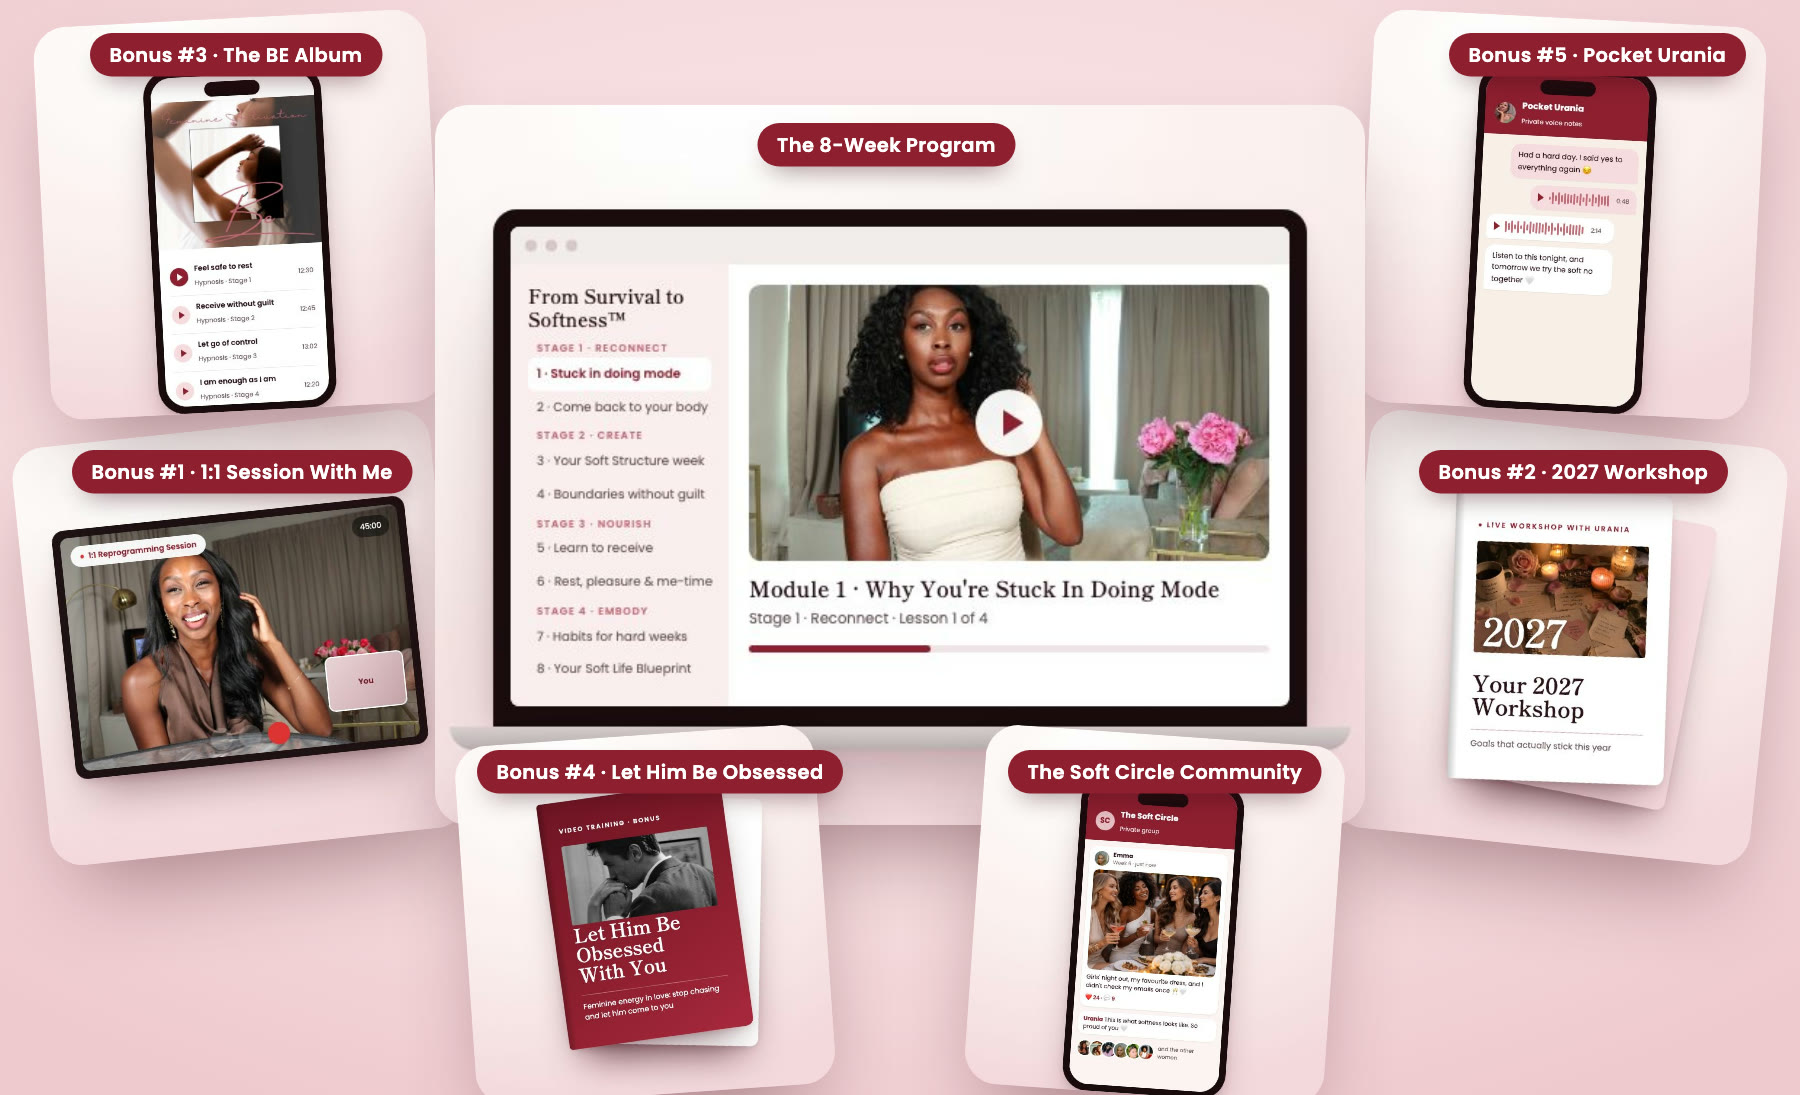
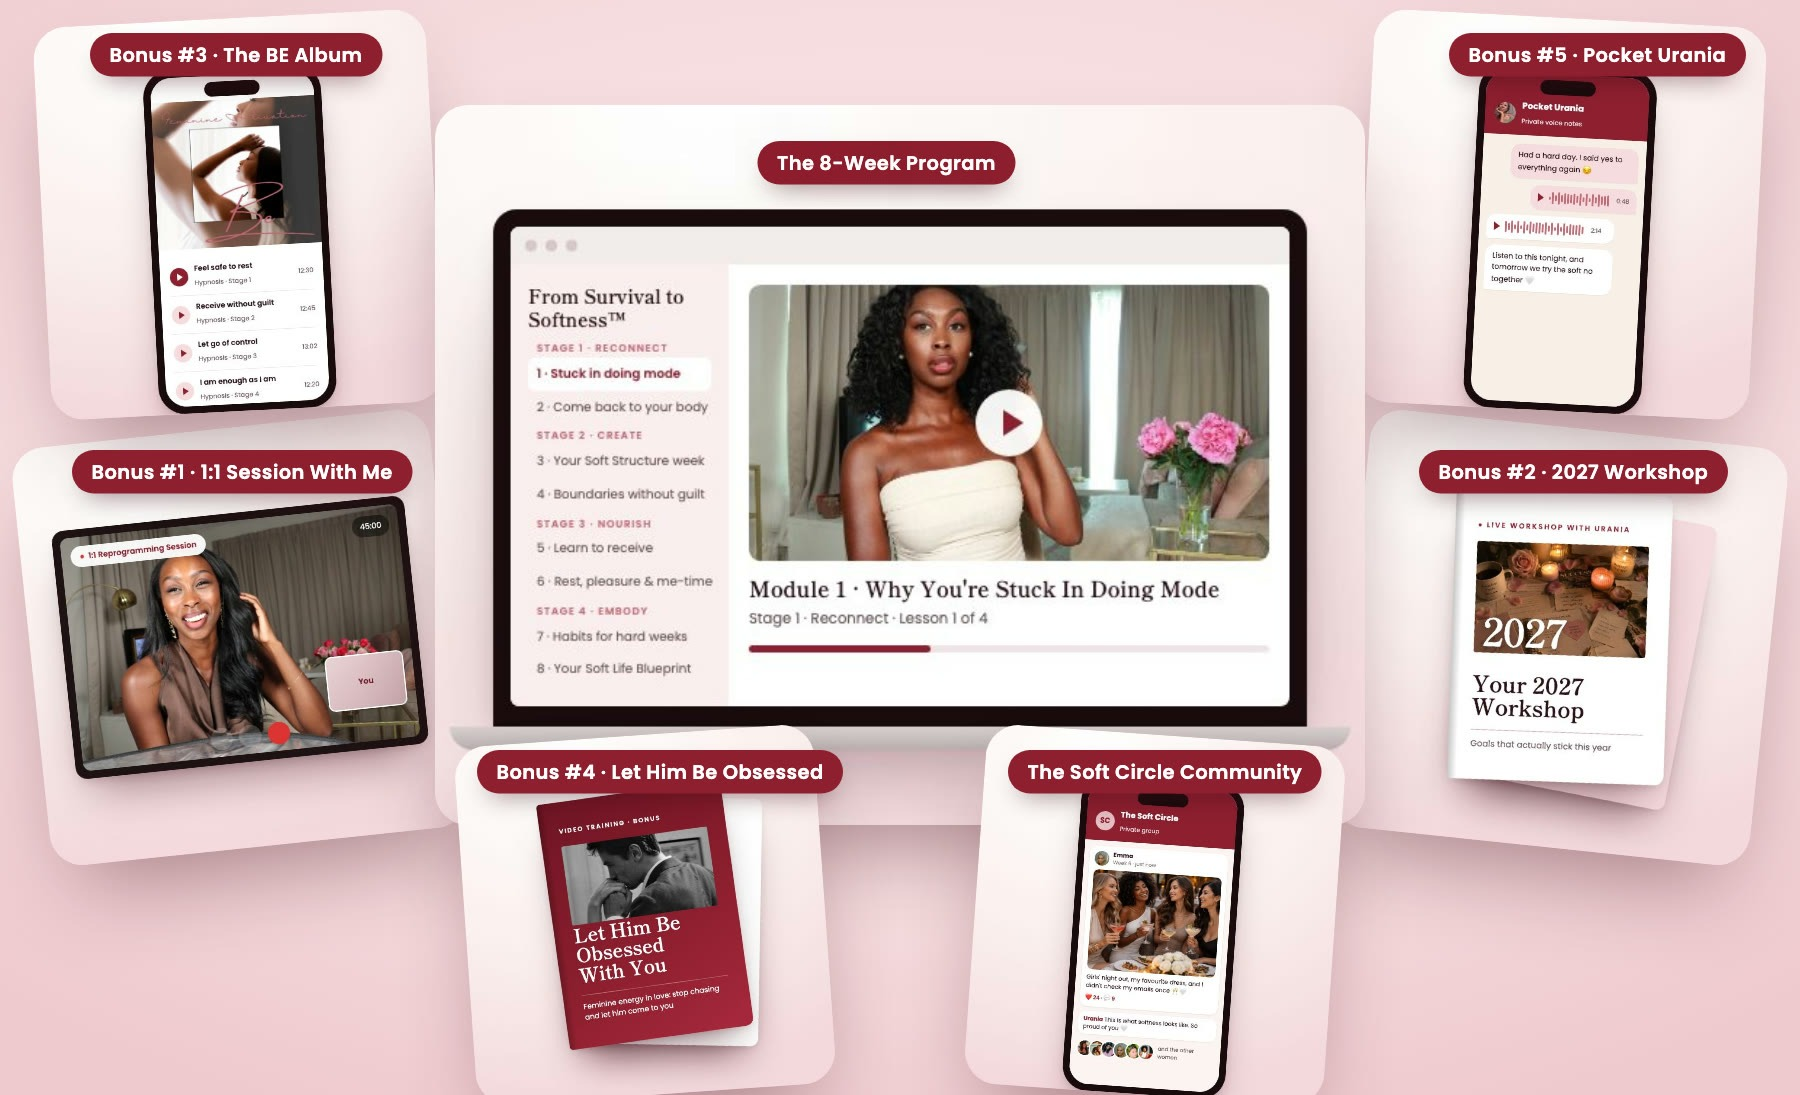
Lower 8-Week Program label in bundle image

Changed region(s): [[0.4044, 0.0932, 0.5911, 0.1863]]

diff --git a/index.html b/index.html
@@ -252,7 +252,7 @@ footer{padding:30px 20px 44px;text-align:center;font-size:13px;color:var(--mute)
     <h2 class="stack-title">Here's Everything You Get With <em>From Survival to Softness™</em></h2>
     <div class="card">
       <p class="secure">Secure your spot today</p>
-      <img class="bundle" src="img/bundle.jpg" alt="The program, the reprogramming session, the hypnosis sessions and the journal">
+      <img class="bundle" src="img/bundle.jpg?v=2" alt="The program, the reprogramming session, the hypnosis sessions and the journal">
 
       <div class="chk"><h3><span class="k">The From Survival to Softness™ 8-Week Program</span></h3><p>My signature 4-stage program that takes you from survival mode to a soft, calm life in 8 weeks. You'll discover which of the 4 Faces of Survival Mode is running your life (most women are surprised by theirs), build your Soft Structure week with real room for you (including my step-by-step Plan Your Week calendar training), receive rest and help without guilt, learn how to stay soft and feminine even in a workspace run on masculine energy, and leave with your own Soft Life Blueprint. Plus 6 live group coaching calls, where I answer your questions and coach you personally. ($2,997 Value)</p></div>
 
